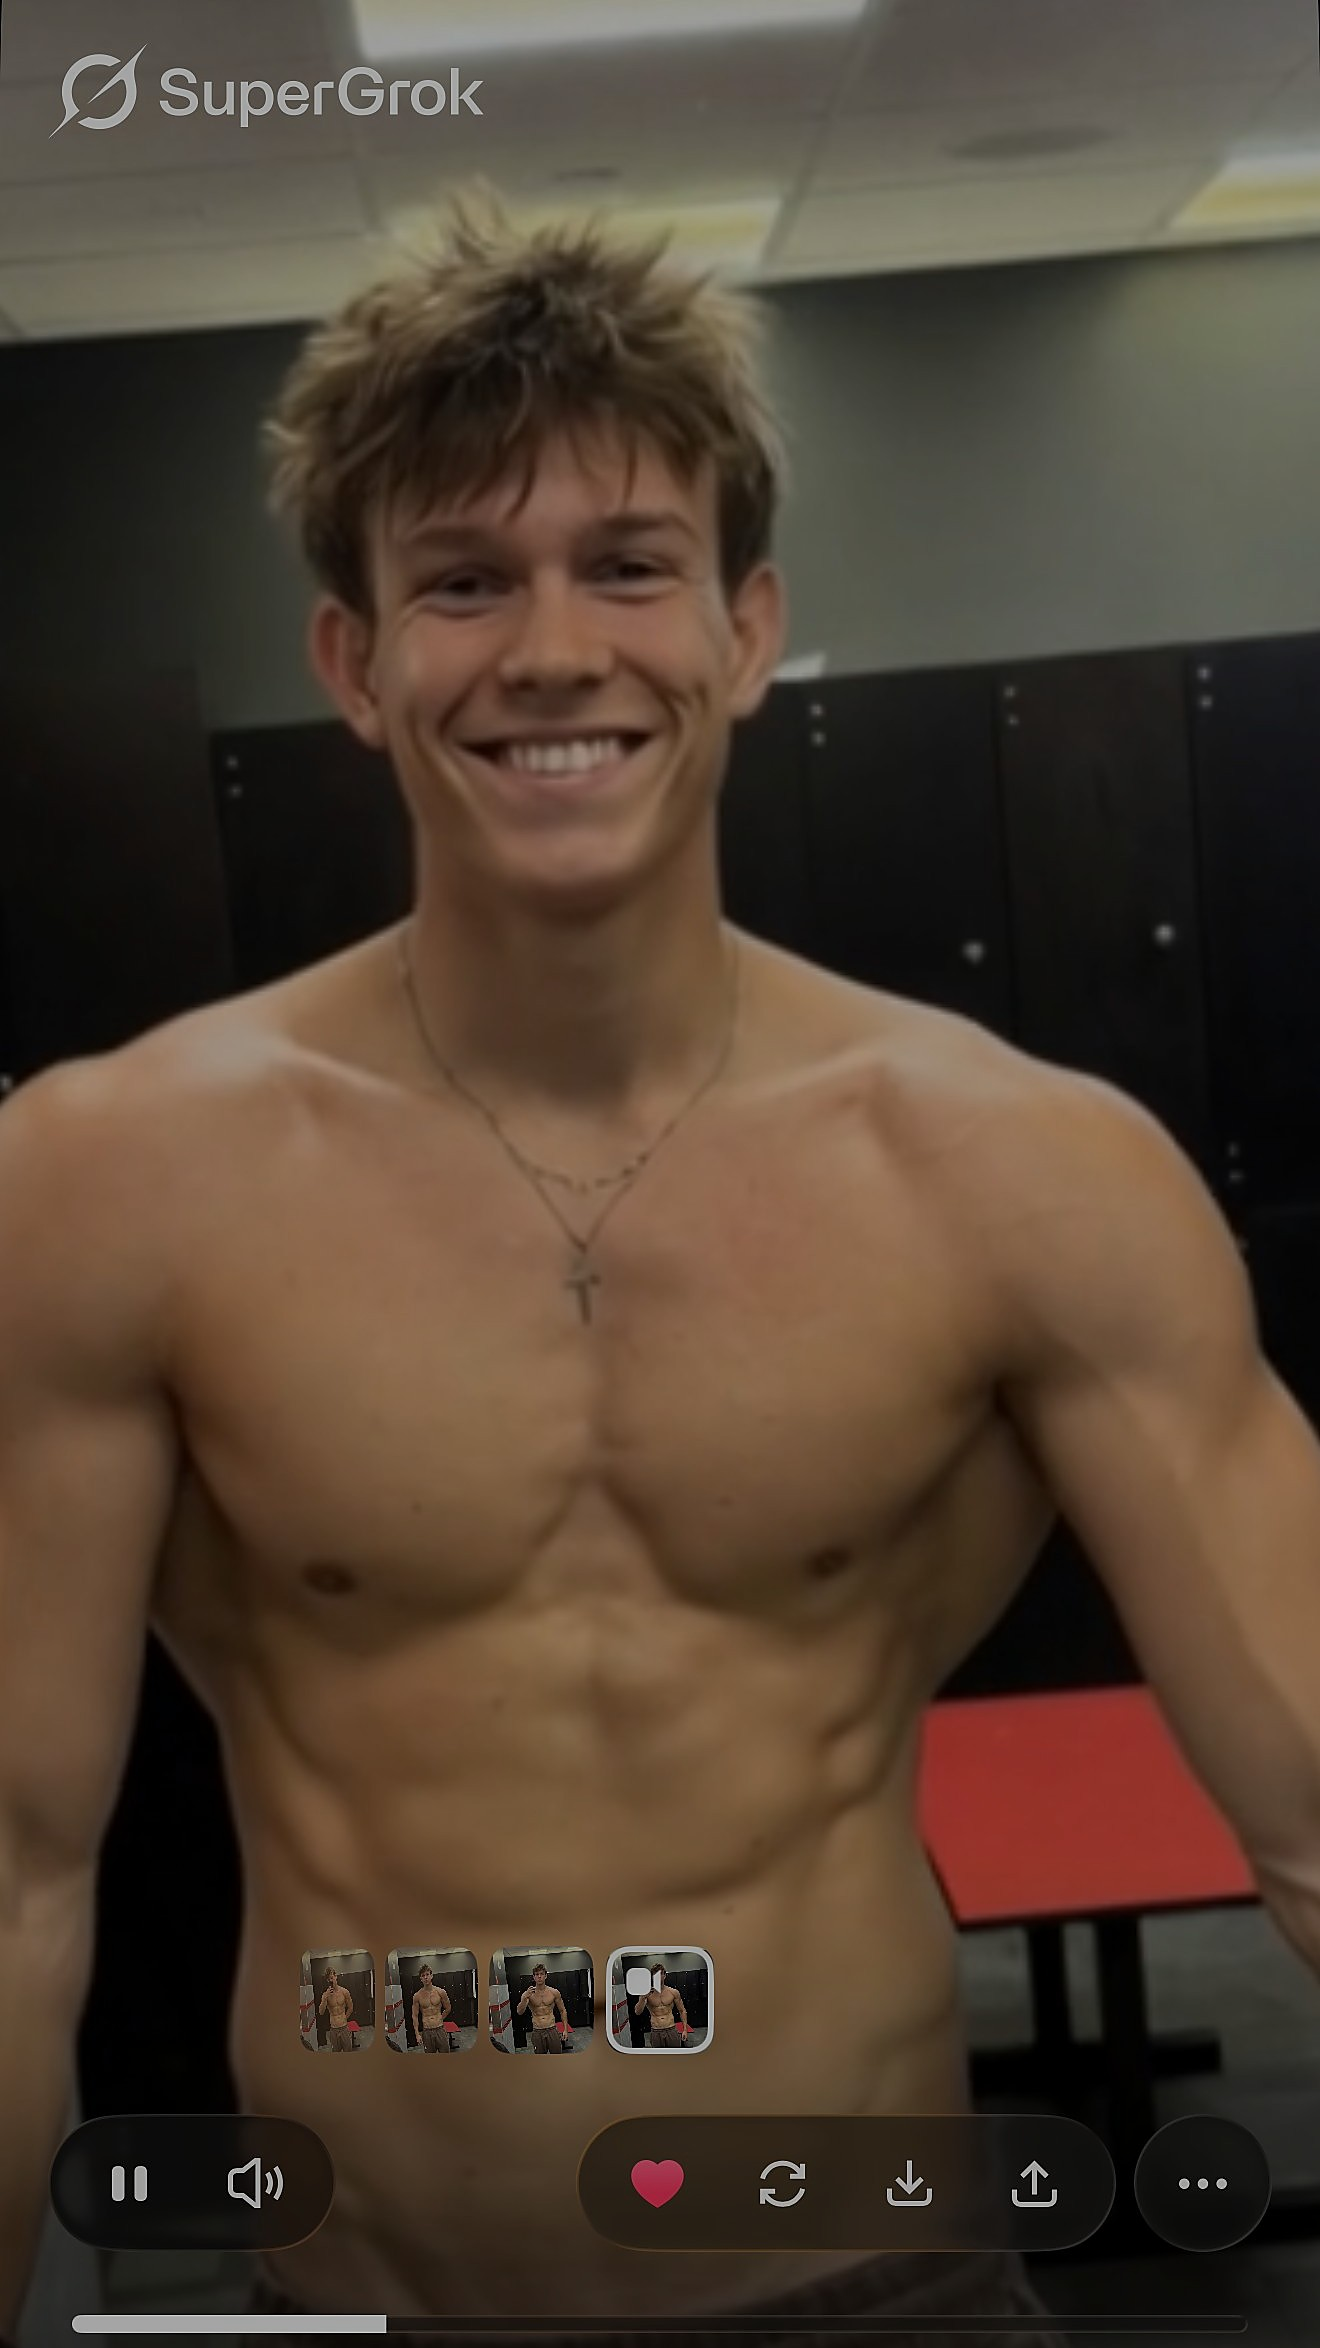
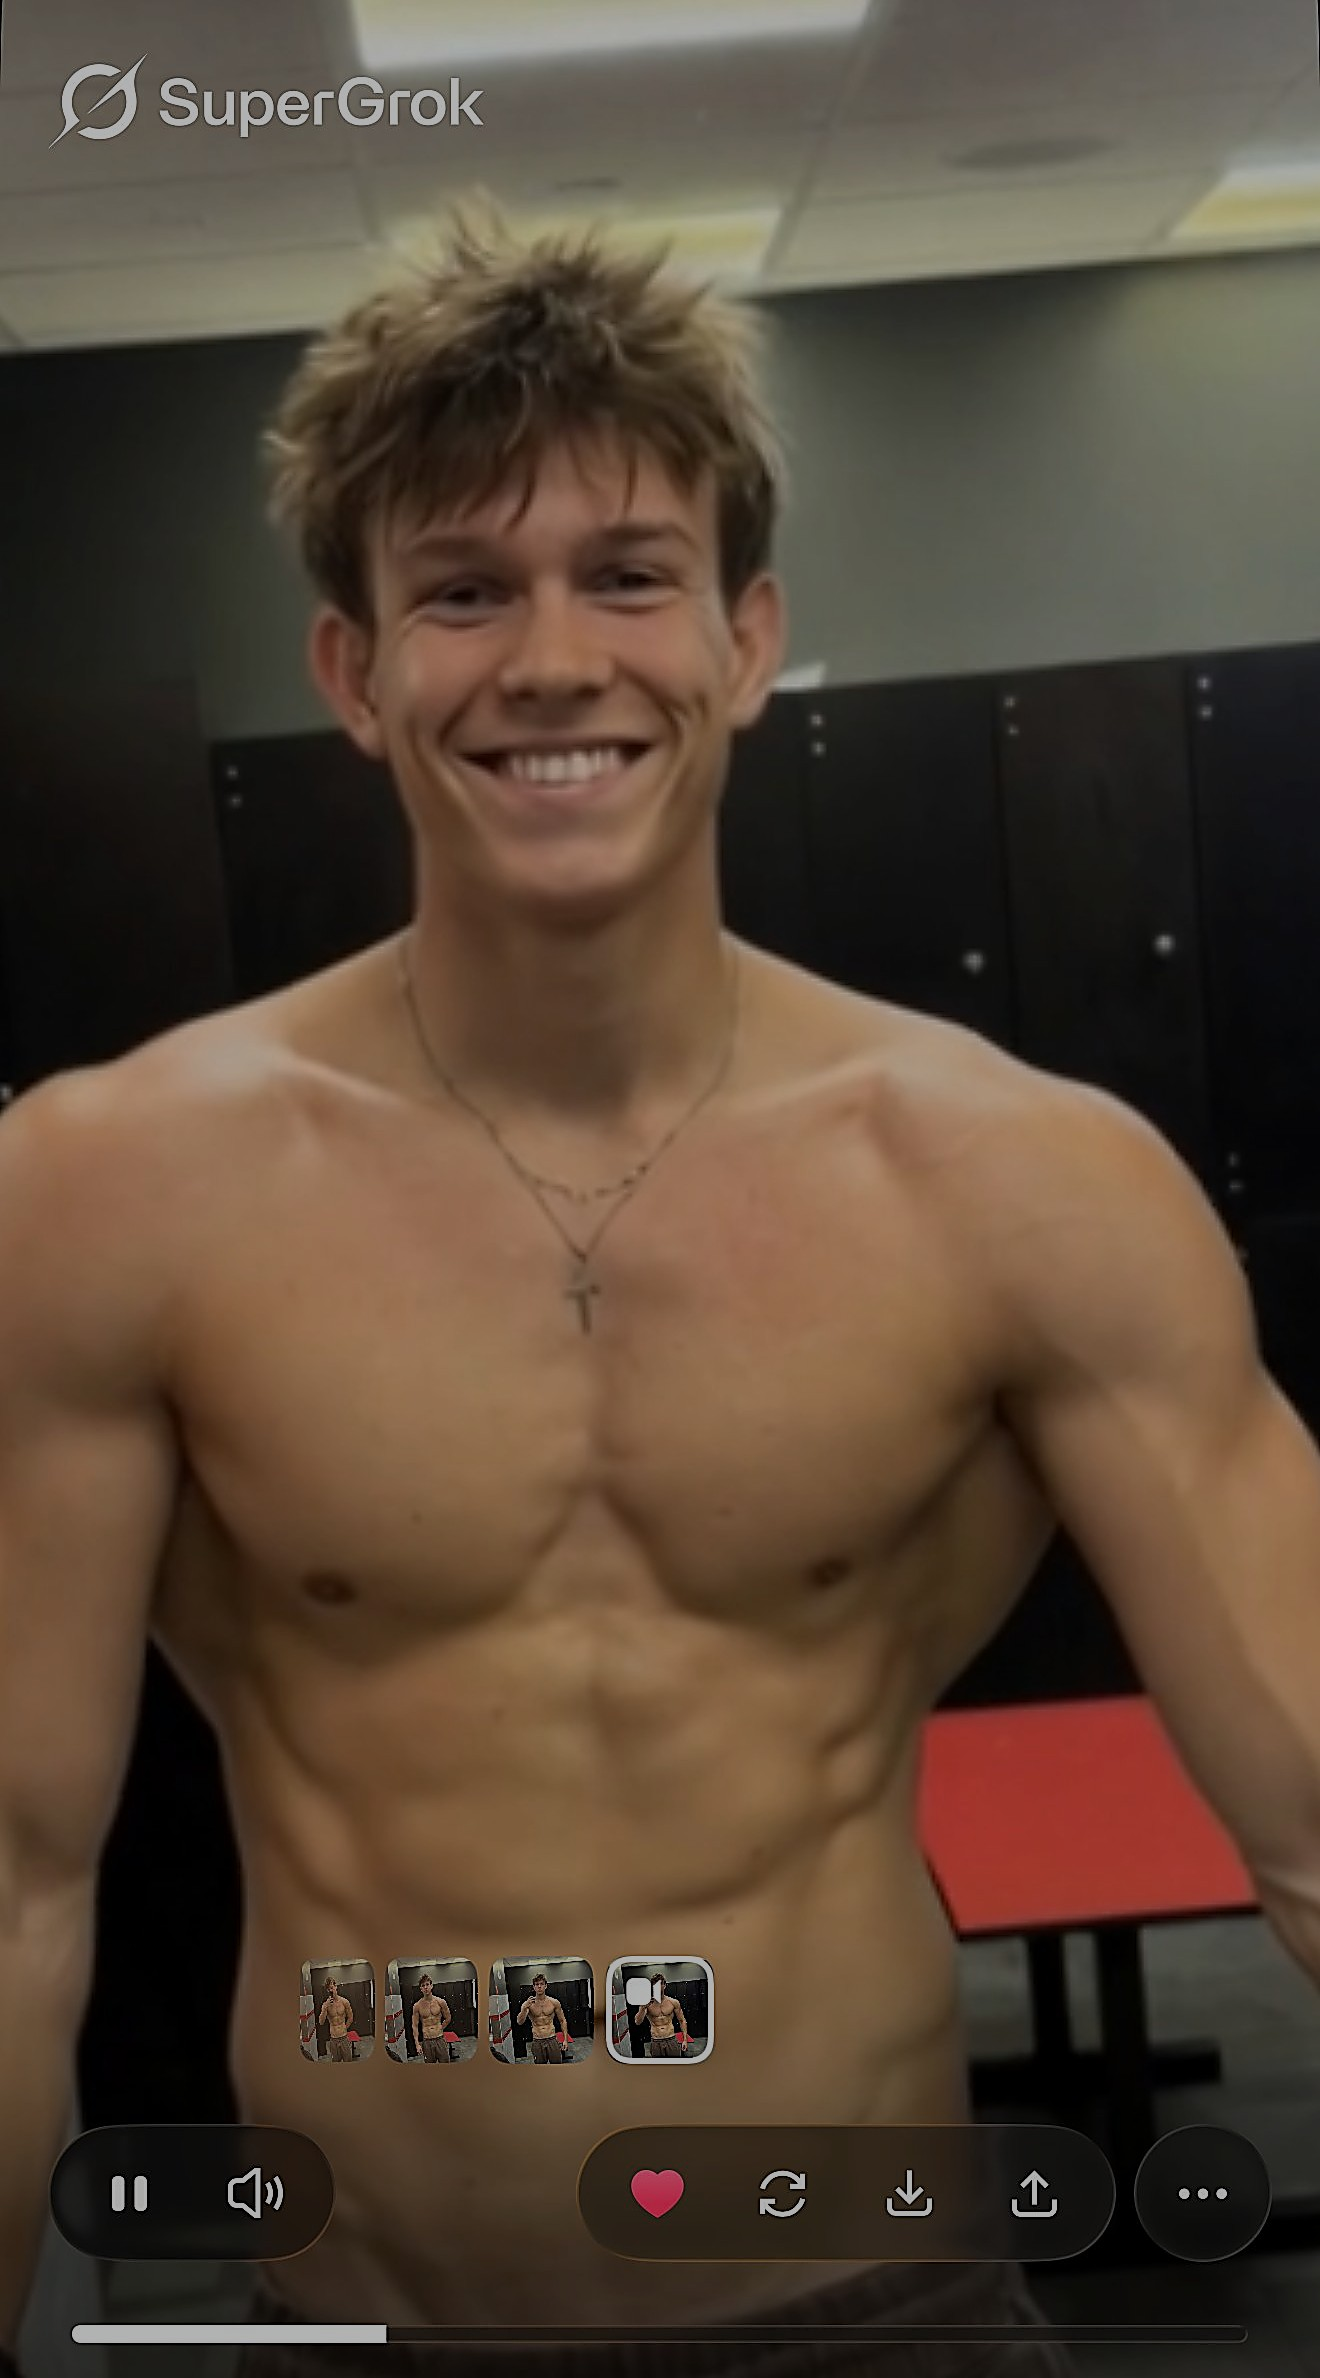
Show more body in hero and about images

diff --git a/client/src/pages/Home.jsx b/client/src/pages/Home.jsx
@@ -19,7 +19,7 @@ export default function Home() {
 
       {/* HERO */}
       <section style={{ minHeight: '100vh', display: 'flex', flexDirection: 'column', justifyContent: 'flex-end', padding: '0 4rem 6rem', position: 'relative', overflow: 'hidden' }}>
-        <div style={{ position: 'absolute', inset: 0, background: 'url("/images/sawyer_hero.jpg") center 20% / cover no-repeat' }} />
+        <div style={{ position: 'absolute', inset: 0, background: 'url("/images/sawyer_hero.jpg") right center / auto 100% no-repeat' }} />
         <div style={{ position: 'absolute', inset: 0, background: 'linear-gradient(to right, rgba(10,10,10,0.78) 0%, rgba(10,10,10,0.45) 55%, rgba(10,10,10,0.15) 100%)' }} />
         <div style={{ position: 'absolute', inset: 0, backgroundImage: 'linear-gradient(rgba(255,255,255,0.025) 1px, transparent 1px), linear-gradient(90deg, rgba(255,255,255,0.025) 1px, transparent 1px)', backgroundSize: '80px 80px', maskImage: 'linear-gradient(to bottom, transparent 0%, rgba(0,0,0,0.3) 30%, transparent 100%)' }} />
 
@@ -79,7 +79,7 @@ export default function Home() {
       <section id="about" style={{ padding: '7rem 4rem', background: '#161616' }}>
         <div style={{ display: 'grid', gridTemplateColumns: '1fr 1fr', gap: '6rem', alignItems: 'center' }}>
           <div style={{ position: 'relative' }}>
-            <img src="/images/sawyer_about.jpg" style={{ width: '100%', maxHeight: '550px', objectFit: 'cover', objectPosition: 'center 10%', display: 'block', borderRadius: '2px' }} alt="Sawyer Kurisko" />
+            <img src="/images/sawyer_about.jpg" style={{ width: '100%', maxHeight: '480px', objectFit: 'cover', objectPosition: 'center 25%', display: 'block', borderRadius: '2px' }} alt="Sawyer Kurisko" />
             <div style={{ position: 'absolute', bottom: '-1.5rem', right: '-1.5rem', width: '60%', height: '60%', border: '1px solid rgba(201,168,76,0.15)', pointerEvents: 'none' }} />
             <div style={{ position: 'absolute', top: '2rem', left: '-2rem', background: '#c9a84c', color: '#0a0a0a', padding: '1.5rem', textAlign: 'center', width: '90px' }}>
               <span style={{ fontFamily: "'Bebas Neue', sans-serif", fontSize: '2.5rem', lineHeight: 1, display: 'block' }}>5</span>
